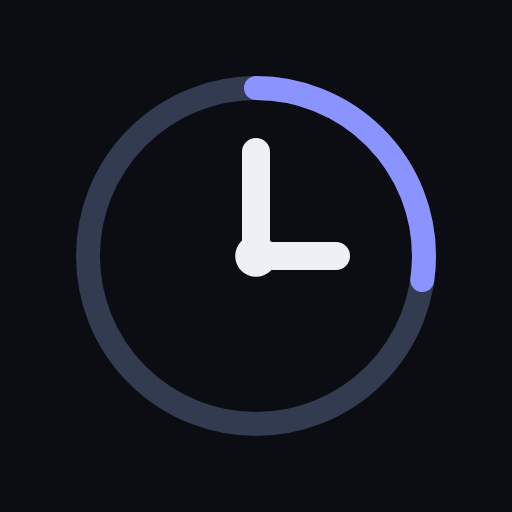
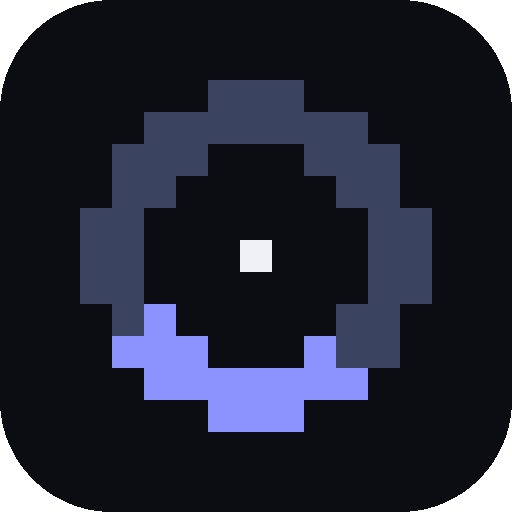
A pixel face, a mark, and the tape
The headline, the wordmark, the section numbers and the headline figures
move to Pixelify Sans — a terminal that stays lit after the bell — with a
block cursor blinking after "Your book doesn't." Body copy and every
column of figures stay in Geist. The mark is the day in New York as an
eleven-cell ring of pixels, the NYSE session lit at the bottom and one
pixel for now; it is the favicon, the app icon and the top-bar logo.
Under the hero, the tape: every xStock's token price and move since the
last close, passing at reading pace, paused under the pointer, still
under reduced motion. The hero's grid becomes a dot matrix. Colours are
untouched. Shots re-taken.

diff --git a/app/app/globals.css b/app/app/globals.css
@@ -119,7 +119,7 @@
     "Segoe UI", Roboto, "Helvetica Neue", Arial, sans-serif;
   --font-mono: var(--font-geist-mono), ui-monospace, "SF Mono", "JetBrains Mono",
     Menlo, Consolas, monospace;
-  --font-display: var(--font-serif), "Instrument Serif", Georgia, "Times New Roman", serif;
+  --font-display: var(--font-pixel), "Pixelify Sans", "Silkscreen", ui-monospace, monospace;
 }
 
 /* ── Base ──────────────────────────────────────────────────────── */
@@ -162,11 +162,17 @@ body {
   box-shadow: inset 0 1px 0 var(--card-light);
 }
 
-/* The headline face. */
+/* The headline face: pixels, set on the grid they were drawn on. Wide
+   tracking or fake italics would blur them, so neither is allowed. */
 @utility display {
   font-family: var(--font-display);
-  font-weight: 400;
-  letter-spacing: -0.01em;
+  font-weight: 500;
+  letter-spacing: 0;
+  font-style: normal;
+  font-variant-numeric: tabular-nums;
+}
+.display em {
+  font-style: normal;
 }
 
 /* A definition on hover: dotted, never underlined like a link. */
@@ -178,14 +184,61 @@ body {
 }
 
 /* The hero's backdrop: one soft light, a desk lamp after the close, over
-   a faint grid — graph paper, since the page is about measuring. */
+   a dot matrix — the grid the headline's pixels sit on, one dot per
+   twelve pixels. */
 @utility hero-glow {
   background-image:
     radial-gradient(60% 90% at 15% 0%, color-mix(in srgb, var(--brand) 16%, transparent), transparent 70%),
-    linear-gradient(to right, color-mix(in srgb, var(--border) 38%, transparent) 1px, transparent 1px),
-    linear-gradient(to bottom, color-mix(in srgb, var(--border) 38%, transparent) 1px, transparent 1px);
-  background-size: auto, 48px 48px, 48px 48px;
-  background-position: 0 0, -1px -1px, -1px -1px;
+    radial-gradient(circle at 1px 1px, color-mix(in srgb, var(--border-strong) 55%, transparent) 1px, transparent 1.5px);
+  background-size: auto, 12px 12px;
+  background-position: 0 0, 6px 6px;
+}
+
+/* The block cursor after the headline: the terminal is still on. */
+@keyframes blink {
+  0%,
+  49% {
+    opacity: 1;
+  }
+  50%,
+  100% {
+    opacity: 0;
+  }
+}
+.cursor {
+  display: inline-block;
+  width: 0.42em;
+  height: 0.78em;
+  margin-left: 0.12em;
+  vertical-align: -0.04em;
+  background: var(--brand);
+  animation: blink 1.1s steps(1) infinite;
+}
+
+/* The tape under the hero: every xStock's move since the last bell,
+   passing at reading pace. Two copies of the row make the loop seamless;
+   the pointer pauses it. */
+@keyframes tape {
+  to {
+    transform: translateX(-50%);
+  }
+}
+.tape {
+  display: flex;
+  width: max-content;
+  animation: tape var(--tape-duration, 90s) linear infinite;
+}
+.tape-wrap:hover .tape,
+.tape-wrap:focus-within .tape {
+  animation-play-state: paused;
+}
+@media (prefers-reduced-motion: reduce) {
+  .tape-wrap {
+    overflow-x: auto;
+  }
+  .cursor {
+    animation: none;
+  }
 }
 
 /* ── Motion ────────────────────────────────────────────────────── */

diff --git a/app/components/Tape.tsx b/app/components/Tape.tsx
@@ -1,0 +1,67 @@
+"use client";
+
+import type { History } from "@/lib/history";
+import { moveSinceClose, type MarketStatus } from "@/lib/market-hours";
+import { price as fmtPrice, signedPct } from "@/lib/format";
+import { ASSETS } from "@/lib/universe";
+
+/**
+ * The tape: every xStock in the universe with its token price and its
+ * move since the last official close, passing under the hero. While the
+ * NYSE is closed it is the whole point of the desk in one line — these
+ * are prices no exchange has confirmed. While it is open it is the day
+ * so far. The row is rendered twice so the loop never shows a seam.
+ */
+export function Tape({
+  history,
+  prices,
+  market,
+}: {
+  history: History | null;
+  prices: Record<string, number> | null;
+  market: MarketStatus;
+}) {
+  if (!history || !prices) return null;
+
+  const rows = ASSETS.filter((a) => a.class === "equity")
+    .map((a) => {
+      const now = prices[a.symbol];
+      const m = now > 0 ? moveSinceClose(history.series[a.symbol] ?? [], market.lastClose, now) : null;
+      return m ? { symbol: a.symbol, price: now, changePct: m.changePct } : null;
+    })
+    .filter((r): r is { symbol: string; price: number; changePct: number } => r !== null);
+  if (rows.length < 4) return null;
+
+  // Reading pace: about three seconds per name, whatever the count.
+  const duration = `${Math.round(rows.length * 3)}s`;
+  const lead = market.open ? "Today vs the last close" : "Since the close";
+
+  const Row = ({ ariaHidden }: { ariaHidden?: boolean }) => (
+    <div className="flex shrink-0 items-center" aria-hidden={ariaHidden}>
+      <span className="label mr-5 shrink-0" style={{ color: "var(--brand)" }}>{lead}</span>
+      {rows.map((r) => (
+        <span key={r.symbol} className="numeric mr-6 flex shrink-0 items-baseline gap-1.5 text-[11px]">
+          <span className="font-medium text-text">{r.symbol}</span>
+          <span className="text-tertiary">{fmtPrice(r.price)}</span>
+          <span style={{ color: r.changePct < 0 ? "var(--severe)" : r.changePct > 0 ? "var(--calm)" : "var(--text-tertiary)" }}>
+            {signedPct(r.changePct)}
+          </span>
+        </span>
+      ))}
+    </div>
+  );
+
+  return (
+    <div
+      className="tape-wrap print-hide overflow-hidden border-b border-border bg-bg-subtle py-1.5"
+      role="region"
+      aria-label={`${lead}: every xStock's token move`}
+      tabIndex={0}
+    >
+      <div className="tape" style={{ "--tape-duration": duration } as React.CSSProperties}>
+        <Row />
+        <Row ariaHidden />
+      </div>
+    </div>
+  );
+}

diff --git a/app/components/Logo.tsx b/app/components/Logo.tsx
@@ -1,0 +1,67 @@
+/**
+ * The mark: a day in New York as a ring of pixels, midnight at the top,
+ * clockwise — the same ring the hero draws. The NYSE session, 9:30 to
+ * 4:00, is the lit run of cells at the bottom; the seventeen and a half
+ * hours the tokens trade without their shares are the dim ones. The
+ * single pixel in the middle is now. Eleven cells a side, so it still
+ * reads at sixteen pixels in a browser tab.
+ */
+const N = 11;
+
+// Cells that are the ring, grouped by whether the market is open there.
+const DIM: [number, number][] = [
+  [4, 0], [5, 0], [6, 0], [2, 1], [3, 1], [4, 1], [5, 1], [6, 1], [7, 1], [8, 1], [1, 2], [2, 2], [3, 2], [7, 2], [8, 2],
+  [9, 2], [1, 3], [2, 3], [8, 3], [9, 3], [0, 4], [1, 4], [9, 4], [10, 4], [0, 5], [1, 5], [9, 5], [10, 5], [0, 6], [1, 6],
+  [9, 6], [10, 6], [1, 7], [8, 7], [9, 7], [8, 8], [9, 8],
+];
+const LIT: [number, number][] = [
+  [2, 7], [1, 8], [2, 8], [3, 8], [7, 8], [2, 9], [3, 9], [4, 9], [5, 9], [6, 9], [7, 9], [8, 9], [4, 10], [5, 10], [6, 10],
+];
+
+function Cells({ cells, fill }: { cells: [number, number][]; fill: string }) {
+  return (
+    <path
+      fill={fill}
+      d={cells.map(([x, y]) => `M${x} ${y}h1v1h-1z`).join("")}
+    />
+  );
+}
+
+export function Mark({
+  size = 20,
+  dim = "var(--border-strong)",
+  lit = "var(--brand)",
+  now = "var(--text)",
+  className = "",
+}: {
+  size?: number;
+  dim?: string;
+  lit?: string;
+  now?: string;
+  className?: string;
+}) {
+  return (
+    <svg
+      width={size}
+      height={size}
+      viewBox={`0 0 ${N} ${N}`}
+      shapeRendering="crispEdges"
+      aria-hidden="true"
+      className={className}
+    >
+      <Cells cells={DIM} fill={dim} />
+      <Cells cells={LIT} fill={lit} />
+      <rect x="5" y="5" width="1" height="1" fill={now} />
+    </svg>
+  );
+}
+
+/** Mark and wordmark, as the top bar shows them. */
+export function Logo({ size = 22 }: { size?: number }) {
+  return (
+    <span className="flex items-center gap-2.5">
+      <Mark size={size} />
+      <span className="display text-[19px] leading-none text-text">Afterhours</span>
+    </span>
+  );
+}

diff --git a/app/app/layout.tsx b/app/app/layout.tsx
@@ -1,5 +1,5 @@
 import type { Metadata, Viewport } from "next";
-import { Geist, Geist_Mono, Instrument_Serif } from "next/font/google";
+import { Geist, Geist_Mono, Pixelify_Sans } from "next/font/google";
 import { THEME_BOOTSTRAP } from "@/lib/theme";
 import "./globals.css";
 
@@ -7,9 +7,10 @@ import "./globals.css";
 // the figures — which are all monospace — never reflow after first paint.
 const sans = Geist({ subsets: ["latin"], variable: "--font-geist-sans", display: "swap" });
 const mono = Geist_Mono({ subsets: ["latin"], variable: "--font-geist-mono", display: "swap" });
-// One display face, spent on the headline and on the sentences the desk
-// wants read slowly — never on a figure.
-const serif = Instrument_Serif({ subsets: ["latin"], weight: "400", style: ["normal", "italic"], variable: "--font-serif", display: "swap" });
+// One display face, spent on the wordmark, the headline and the headline
+// figures: a pixel face, because the desk is a terminal that stays lit
+// after the bell. Body copy and every column of figures stay in Geist.
+const pixel = Pixelify_Sans({ subsets: ["latin"], variable: "--font-pixel", display: "swap" });
 
 const DESCRIPTION =
   "The risk desk for tokenized stocks on Solana. Value at Risk, beta, overnight exposure and " +
@@ -48,7 +49,7 @@ export const viewport: Viewport = {
 
 export default function RootLayout({ children }: { children: React.ReactNode }) {
   return (
-    <html lang="en" data-theme="dark" suppressHydrationWarning className={`${sans.variable} ${mono.variable} ${serif.variable}`}>
+    <html lang="en" data-theme="dark" suppressHydrationWarning className={`${sans.variable} ${mono.variable} ${pixel.variable}`}>
       <head>
         <script dangerouslySetInnerHTML={{ __html: THEME_BOOTSTRAP }} />
       </head>

diff --git a/app/app/page.tsx b/app/app/page.tsx
@@ -14,6 +14,7 @@ import { shortAddress, timeAgo } from "@/lib/format";
 import type { Target } from "@/lib/quant";
 import { TopBar } from "@/components/TopBar";
 import { SessionRing } from "@/components/SessionRing";
+import { Tape } from "@/components/Tape";
 import { SectionNav, type Section } from "@/components/SectionNav";
 import { Stress } from "@/components/Stress";
 import { RiskMap } from "@/components/RiskMap";
@@ -270,7 +271,14 @@ function Desk() {
           <div className="min-w-0">
             <p className="label mb-3" style={{ color: "var(--brand)" }}>The risk desk for tokenized stocks on Solana</p>
             <h1 className="display max-w-[20ch] text-[38px] leading-[1.02] text-text sm:text-[58px]">
-              Markets close. <em className="text-secondary">Your book doesn&rsquo;t.</em>
+              Markets close.{" "}
+              <em className="text-secondary">
+                Your book{" "}
+                <span className="whitespace-nowrap">
+                  doesn&rsquo;t.
+                  <span className="cursor" aria-hidden="true" />
+                </span>
+              </em>
             </h1>
             <p className="mt-4 max-w-[58ch] text-[14px] leading-relaxed text-secondary sm:text-[15px]">
               An xStock trades every hour of every day. The share behind it trades 9:30 to 4:00, New York. What your
@@ -398,6 +406,7 @@ function Desk() {
           </div>
         </div>
       </section>
+      <Tape history={history} prices={quotes?.prices ?? null} market={market} />
 
       <main className="mx-auto max-w-[1500px] px-4 py-6 sm:px-6">
         {historyError ? (

diff --git a/app/components/TopBar.tsx b/app/components/TopBar.tsx
@@ -5,21 +5,8 @@ import { formatEastern } from "@/lib/market-hours";
 import { untilTime } from "@/lib/format";
 import { useMounted, useNow } from "@/lib/hooks";
 import { useTheme } from "@/lib/theme";
+import { Logo } from "./Logo";
 import { Button, Dot } from "./ui";
-
-function Logo() {
-  return (
-    <span className="flex items-center gap-2.5">
-      <svg width="20" height="20" viewBox="0 0 20 20" aria-hidden="true">
-        <circle cx="10" cy="10" r="8.5" stroke="var(--text-secondary)" strokeWidth="1.2" fill="none" />
-        {/* A clock past the close: the hands say 4:00 and the tick keeps going. */}
-        <path d="M10 10 V5.5 M10 10 H13.6" stroke="var(--text)" strokeWidth="1.6" strokeLinecap="round" fill="none" />
-        <circle cx="10" cy="10" r="1" fill="var(--text)" />
-      </svg>
-      <span className="text-[15px] font-semibold tracking-tight text-text">Afterhours</span>
-    </span>
-  );
-}
 
 function ThemeToggle() {
   const { theme, toggle } = useTheme();

diff --git a/app/components/Summary.tsx b/app/components/Summary.tsx
@@ -73,7 +73,7 @@ export function Summary({ a }: { a: Analysis }) {
           {metrics.map((m) => (
             <div key={m.label} className="min-w-0 bg-surface px-5 py-4">
               <dt className="label">{m.term ? <Term term={m.term}>{m.label}</Term> : m.label}</dt>
-              <dd className="numeric mt-1.5 truncate text-lg font-medium leading-none text-text xl:text-xl" style={m.color ? { color: m.color } : undefined}>{m.value}</dd>
+              <dd className="display mt-1.5 truncate text-[22px] leading-none text-text xl:text-[24px]" style={m.color ? { color: m.color } : undefined}>{m.value}</dd>
               <p className="mt-1.5 text-[11px] leading-snug text-tertiary">{m.detail}</p>
             </div>
           ))}

diff --git a/app/components/SectionNav.tsx b/app/components/SectionNav.tsx
@@ -68,7 +68,7 @@ export function SectionNav({ sections }: { sections: Section[] }) {
               className={`flex shrink-0 items-baseline gap-1.5 whitespace-nowrap rounded-md px-2 py-1 text-[11px] transition-colors ${on ? "bg-surface-active text-text" : "text-tertiary hover:bg-surface-hover hover:text-text"}`}
               aria-current={on ? "location" : undefined}
             >
-              <span className="numeric text-[10px]" style={{ color: on ? "var(--brand)" : undefined }}>{s.number}</span>
+              <span className="display text-[11px]" style={{ color: on ? "var(--brand)" : undefined }}>{s.number}</span>
               {s.title}
             </a>
           );

diff --git a/app/app/not-found.tsx b/app/app/not-found.tsx
@@ -1,9 +1,13 @@
 import Link from "next/link";
+import { Mark } from "@/components/Logo";
 
 export default function NotFound() {
   return (
     <main className="mx-auto flex min-h-screen max-w-[1500px] flex-col items-start justify-center px-6">
-      <p className="label mb-3" style={{ color: "var(--brand)" }}>Afterhours</p>
+      <p className="label mb-3 flex items-center gap-2" style={{ color: "var(--brand)" }}>
+        <Mark size={16} />
+        Afterhours
+      </p>
       <h1 className="display text-[44px] leading-[1.02] text-text sm:text-[64px]">
         Nothing trades <em className="text-secondary">here.</em>
       </h1>

diff --git a/app/components/ui.tsx b/app/components/ui.tsx
@@ -33,7 +33,7 @@ export function PanelHeader({
     <div className="border-b border-border px-5 py-3.5">
       <div className="flex items-center justify-between gap-3">
         <div className="flex min-w-0 items-baseline gap-2.5">
-          {number && <span className="numeric text-[11px] text-brand">{number}</span>}
+          {number && <span className="display text-[12px] text-brand">{number}</span>}
           <h2 className="shrink-0 text-[13px] font-semibold tracking-tight text-text">{title}</h2>
           {meta && <span className="truncate text-[11px] text-tertiary">{meta}</span>}
         </div>

diff --git a/app/components/RiskDial.tsx b/app/components/RiskDial.tsx
@@ -94,7 +94,7 @@ export function RiskDial({
         {/* Typography scales with the dial so the reading never crowds the
             arc at smaller sizes. */}
         <span
-          className="numeric font-medium leading-none tracking-tight text-text"
+          className="display leading-none text-text"
           style={{ fontSize: Math.round(size * 0.235) }}
         >
           {value.toFixed(1)}

diff --git a/README.md b/README.md
@@ -273,7 +273,7 @@ for the hackathon so that trying it costs nobody real SOL.
 
 | Layer | Technology |
 |:--|:--|
-| App | Next.js 16 static export · React 19 · Tailwind 4 · Geist, Geist Mono, Instrument Serif · hand-rolled SVG |
+| App | Next.js 16 static export · React 19 · Tailwind 4 · Geist, Geist Mono, Pixelify Sans · hand-rolled SVG |
 | Wallet | Wallet Standard via `@solana/wallet-adapter-react` |
 | Program | Rust · Anchor 0.32 |
 | Data | Solana mainnet RPC · CoinGecko · Jupiter quote API · GitHub Actions |
